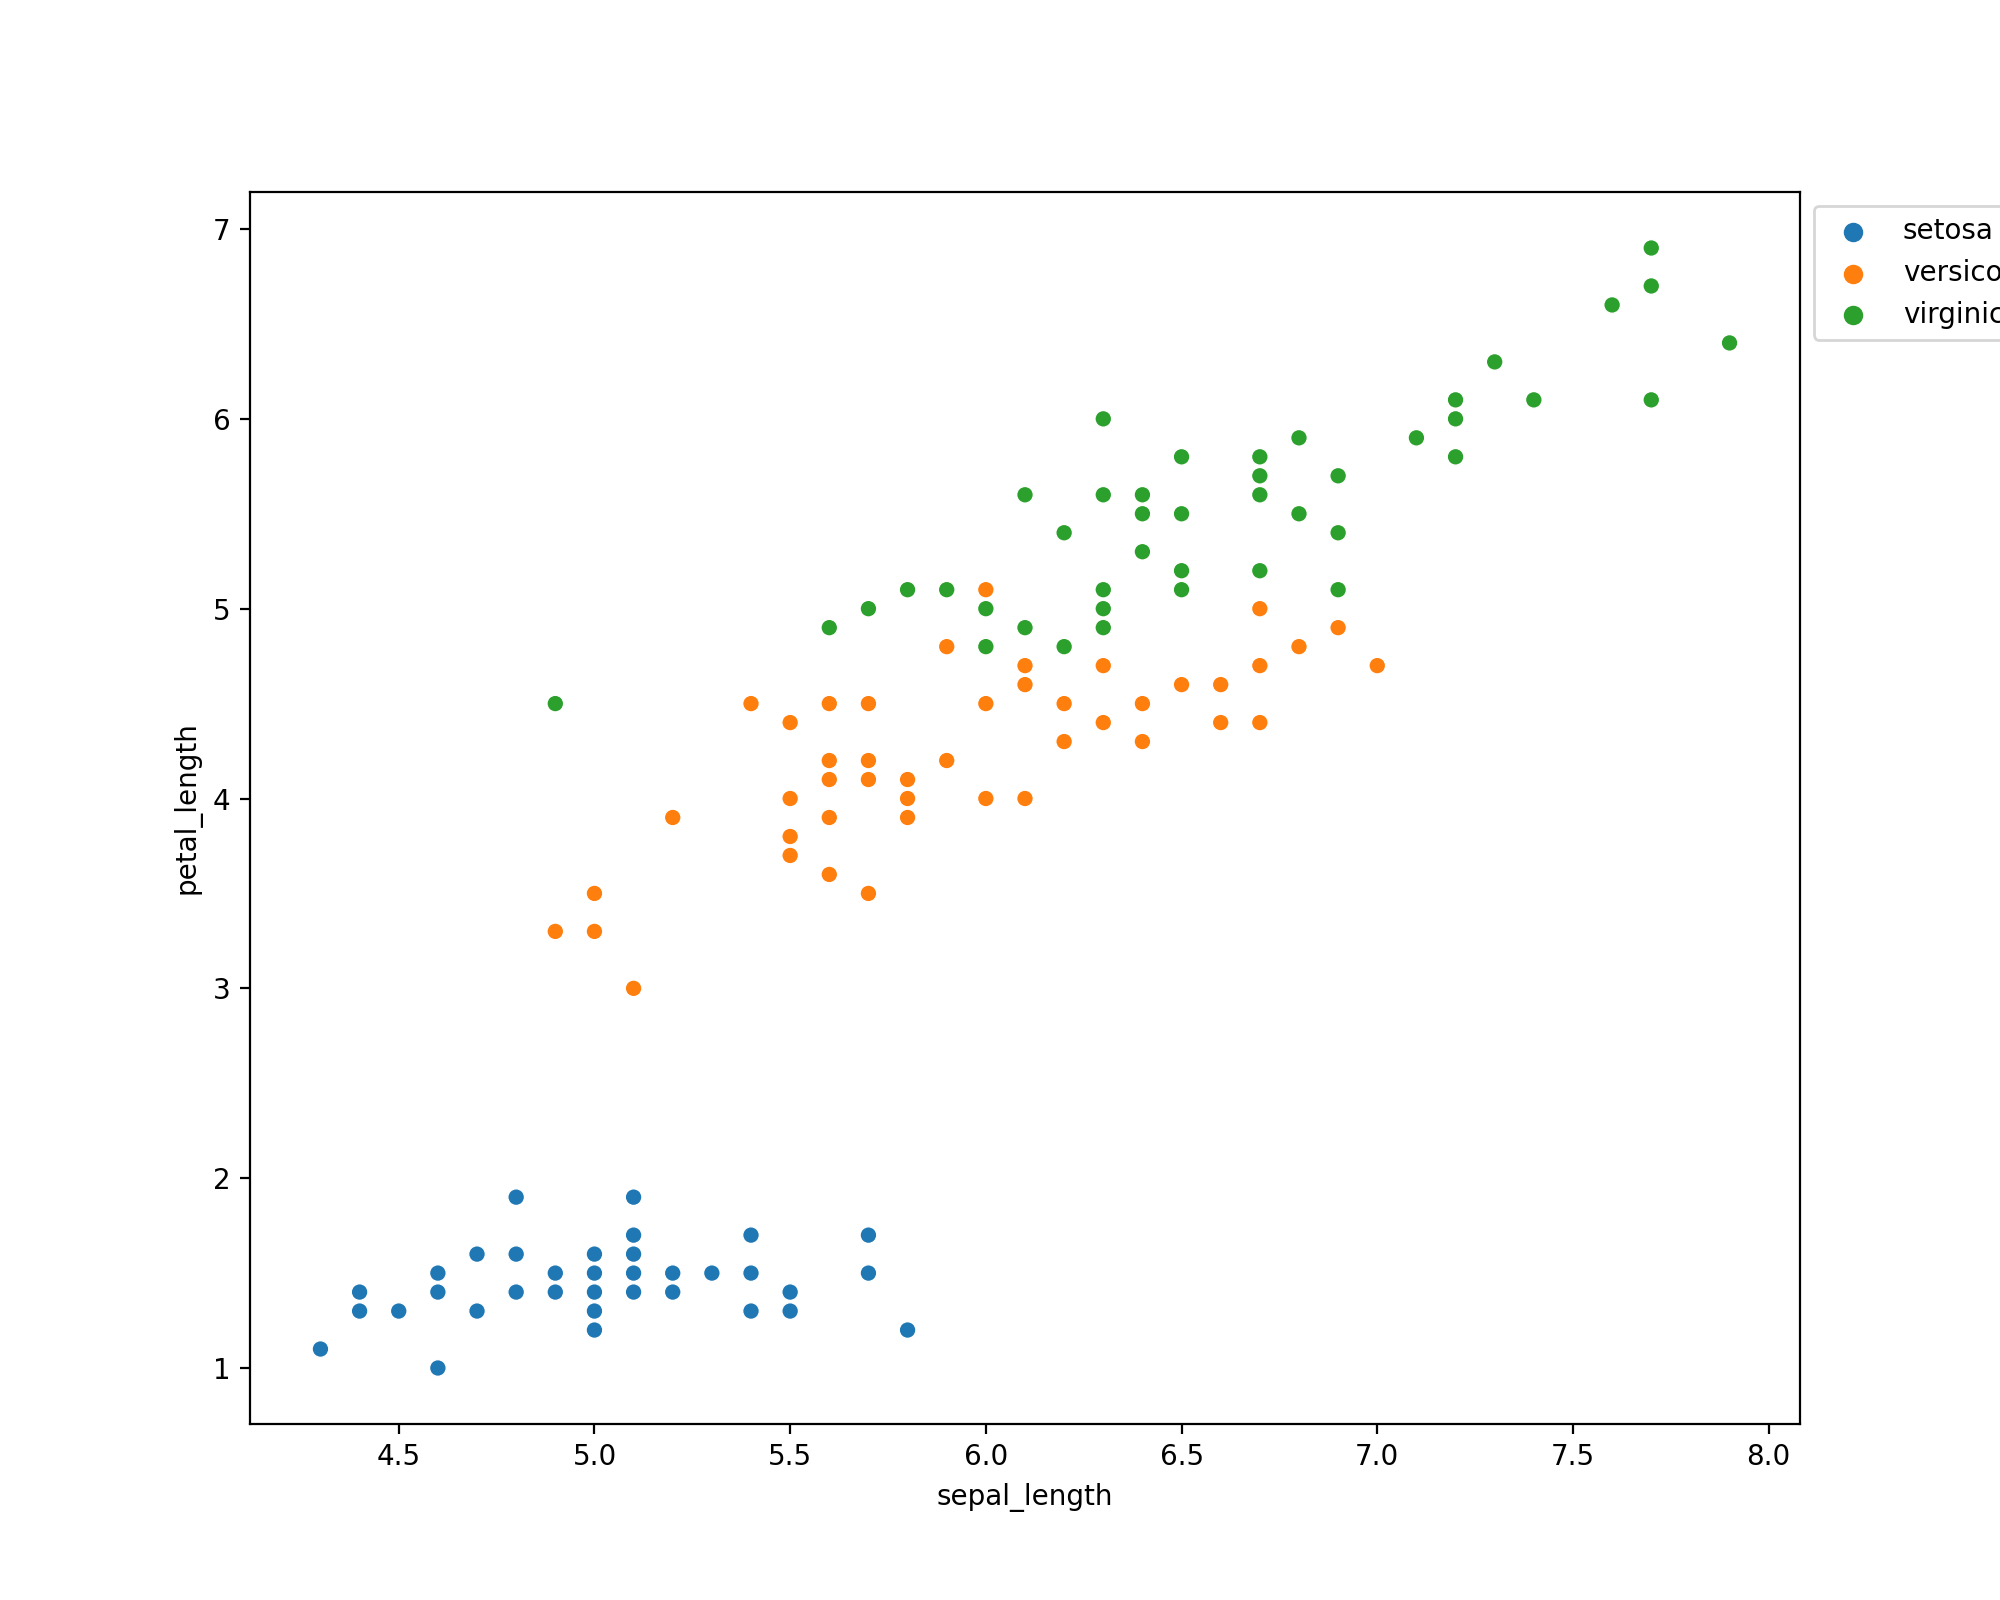
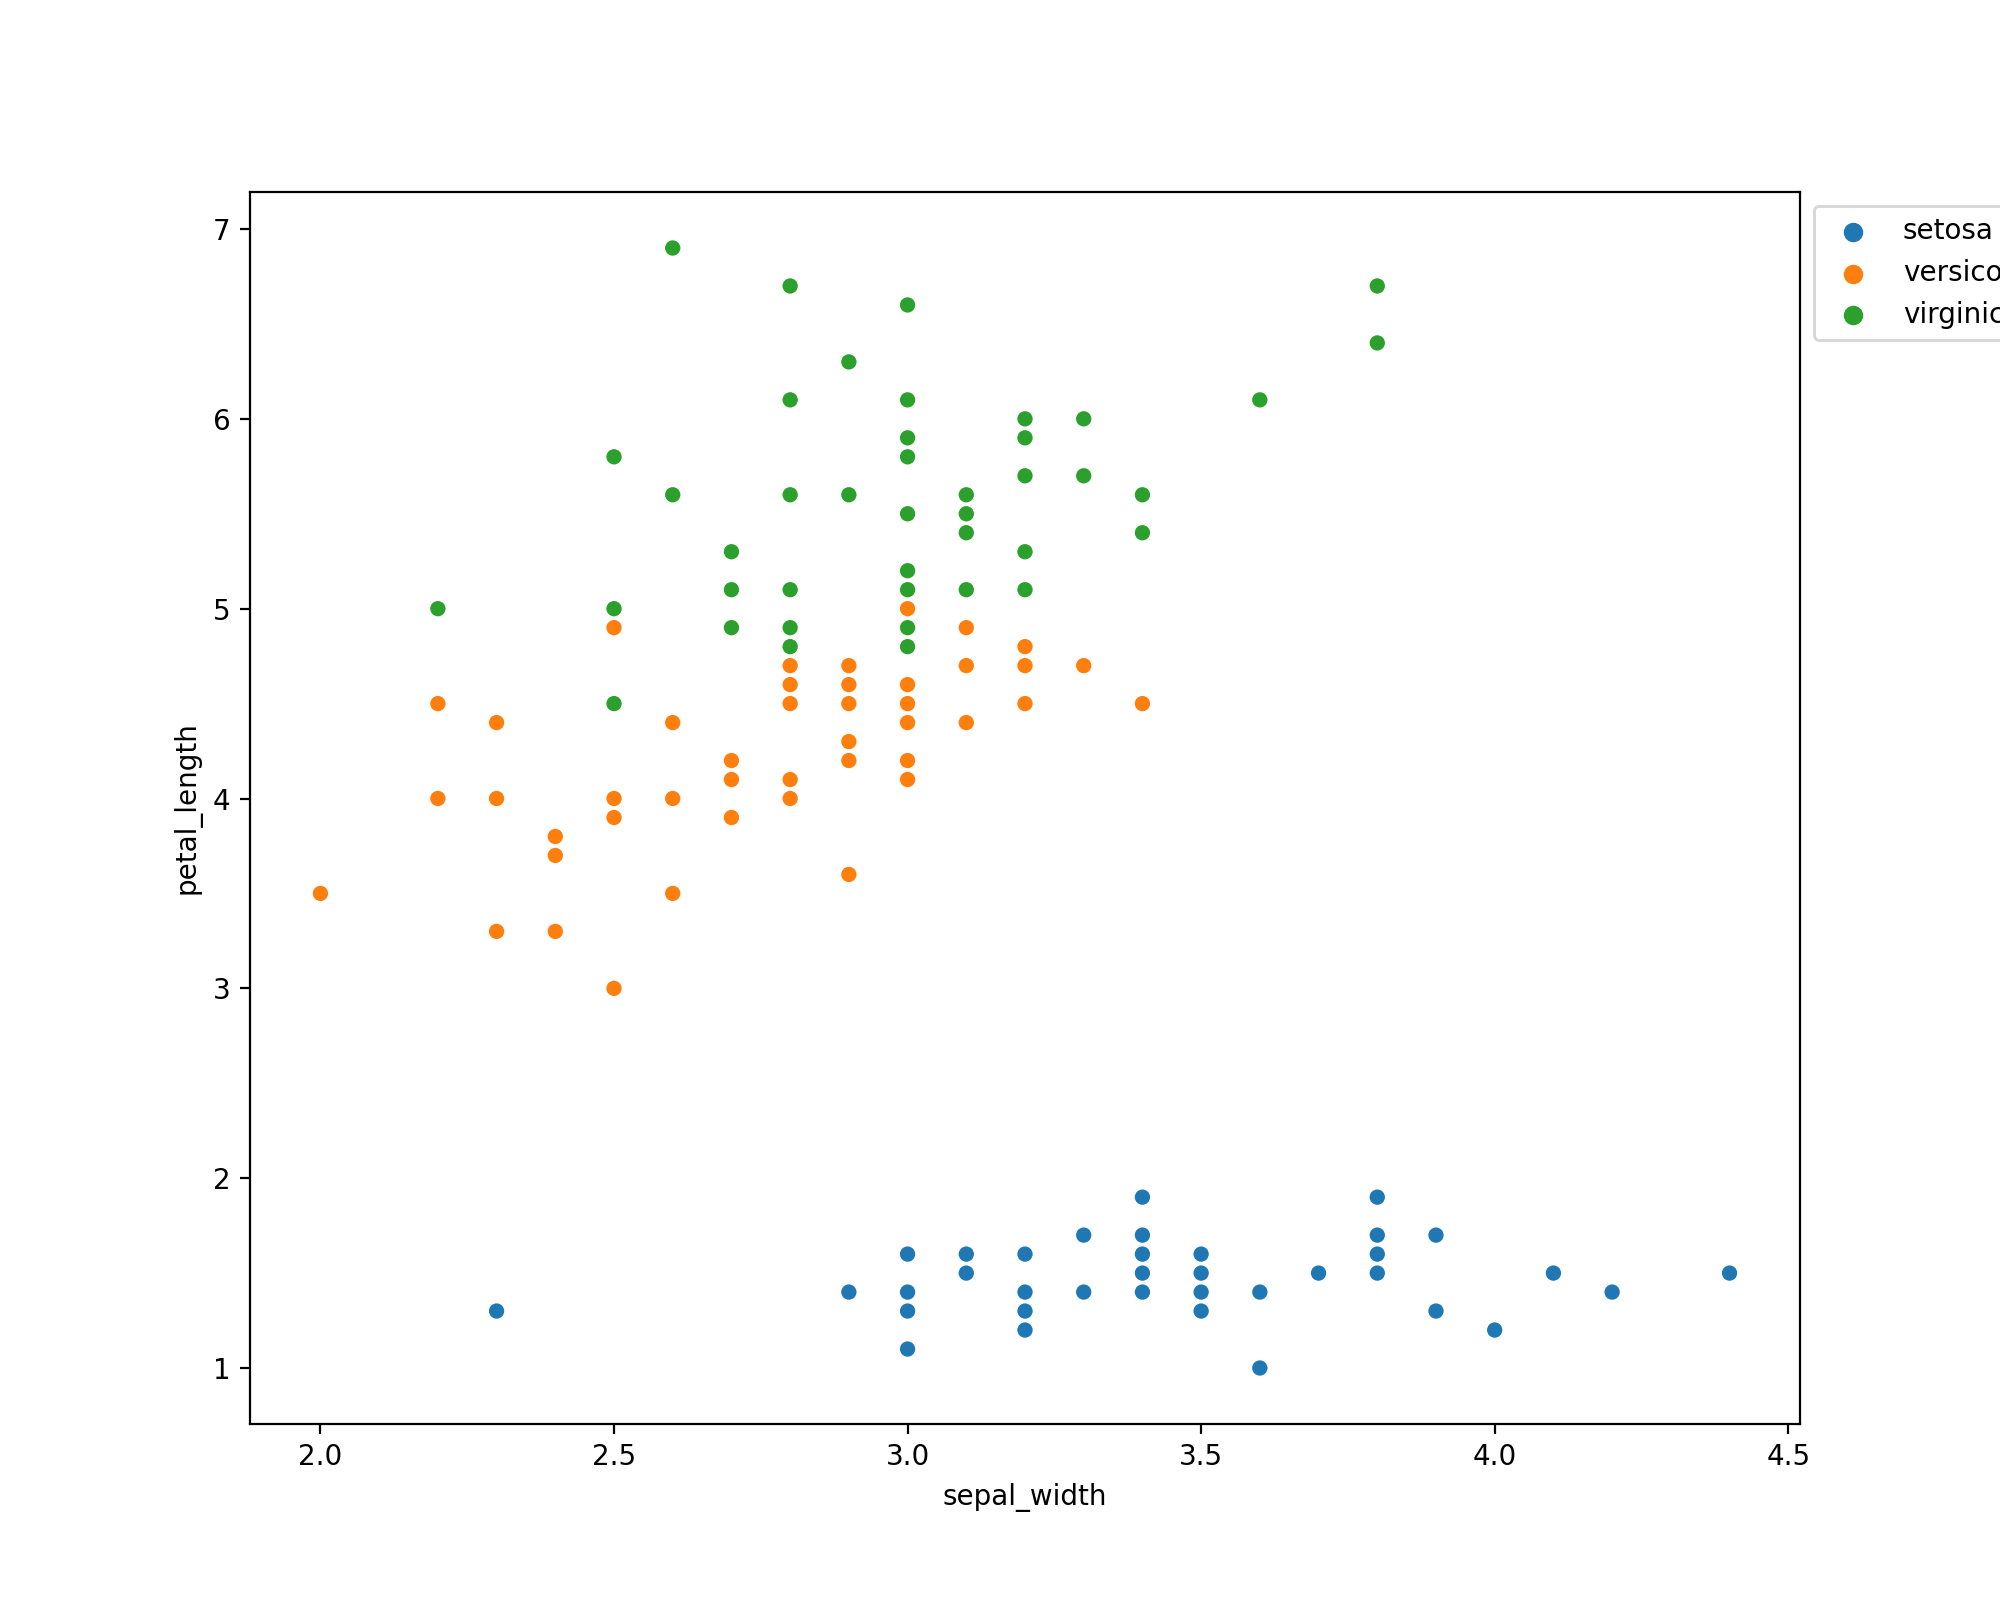
finishing up all scatterplots, one was missing for value pairs - total 6 pairs

diff --git a/analysis.py b/analysis.py
@@ -125,6 +125,30 @@ plt.savefig("Sepal Width V Petal Width Scatterplot", dpi=200)
 plt.close()
 
 #------
+#pair5
+#Sepal Length V Petal Width
+plt.gcf().set_size_inches(10, 8)
+
+
+sns.scatterplot(x="petal_width", y="sepal_length", hue="species", data=df)
+plt.legend(bbox_to_anchor=(1, 1), loc=2)
+
+plt.savefig("Sepal Length V Petal Width Scatterplot", dpi=200)
+plt.close()
+
+#------
+#pair6
+#Sepal Width V Petal Length
+plt.gcf().set_size_inches(10, 8)
+
+
+sns.scatterplot(x="sepal_width", y="petal_length", hue="species", data=df)
+plt.legend(bbox_to_anchor=(1, 1), loc=2)
+
+plt.savefig("Sepal Width V Petal Length Scatterplot", dpi=200)
+plt.close()
+
+
 #Saves a histogram of each variable to png files
 
 #histogram3, 4, 5, 6 species compare sepal_length, width, petal_length, width
